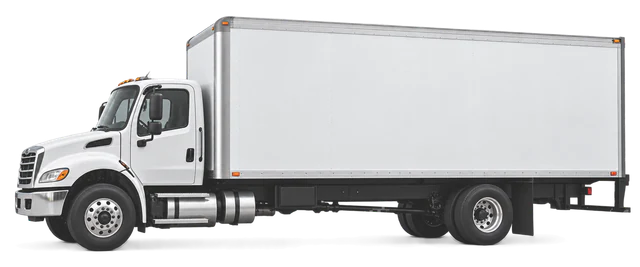
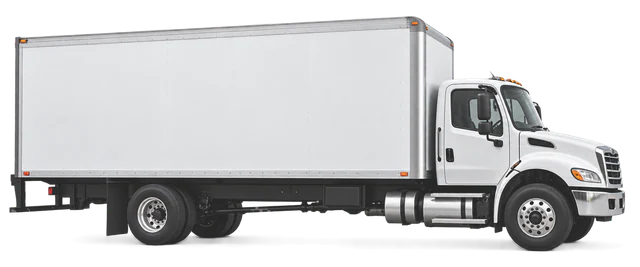
Rendered artwork for the full vehicle catalog
Add light and dark transparent renders for all 35 vehicle choices, mirrored
so every vehicle faces right. 45/47 ft trailers reuse the 48 ft render.

diff --git a/src/lib/vehicle-artwork-assets.ts b/src/lib/vehicle-artwork-assets.ts
@@ -12,14 +12,41 @@ const art = (file: string): VehicleArtAsset => ({
   dark: `/images/vehicles/dark/${file}.webp`,
 });
 
+// 45 and 47 ft trailers share the 48 ft render; every box truck size shares one.
 export const VEHICLE_ARTWORK_ASSETS: Partial<Record<VehicleArtKind, VehicleArtAsset>> = {
   bicycle: art("bicycle"),
   "cargo-bike": art("cargo-bike"),
+  "e-bike": art("electric-bicycle"),
+  "e-scooter": art("scooter"),
+  moped: art("moped"),
+  motorcycle: art("motorcycle"),
   sedan: art("sedan"),
+  hatchback: art("hatchback"),
+  suv: art("suv"),
+  minivan: art("minivan"),
+  pickup: art("pickup-truck"),
+  "cargo-van": art("cargo-van"),
+  "high-roof-van": art("high-roof-cargo-van"),
+  "sprinter-van": art("sprinter-van"),
   "straight-truck": art("straight-truck"),
   "box-truck": art("box-truck"),
   "box-truck-16": art("box-truck"),
   "box-truck-20": art("box-truck"),
   "box-truck-24": art("box-truck"),
   "box-truck-26": art("box-truck"),
+  flatbed: art("flatbed-stake-bed"),
+  refrigerated: art("refrigerated-truck"),
+  "dump-truck": art("dump-truck"),
+  "tanker-truck": art("tanker-truck"),
+  "roll-off-truck": art("roll-off-truck"),
+  "tractor-trailer": art("tractor-trailer-53ft"),
+  "tractor-trailer-28": art("tractor-trailer-28ft"),
+  "tractor-trailer-40": art("tractor-trailer-40ft"),
+  "tractor-trailer-45": art("tractor-trailer-48ft"),
+  "tractor-trailer-47": art("tractor-trailer-48ft"),
+  "tractor-trailer-48": art("tractor-trailer-48ft"),
+  "tractor-trailer-53": art("tractor-trailer-53ft"),
+  "flatbed-tractor-trailer": art("flatbed-tractor-trailer"),
+  doubles: art("doubles"),
+  triples: art("triples"),
 };
